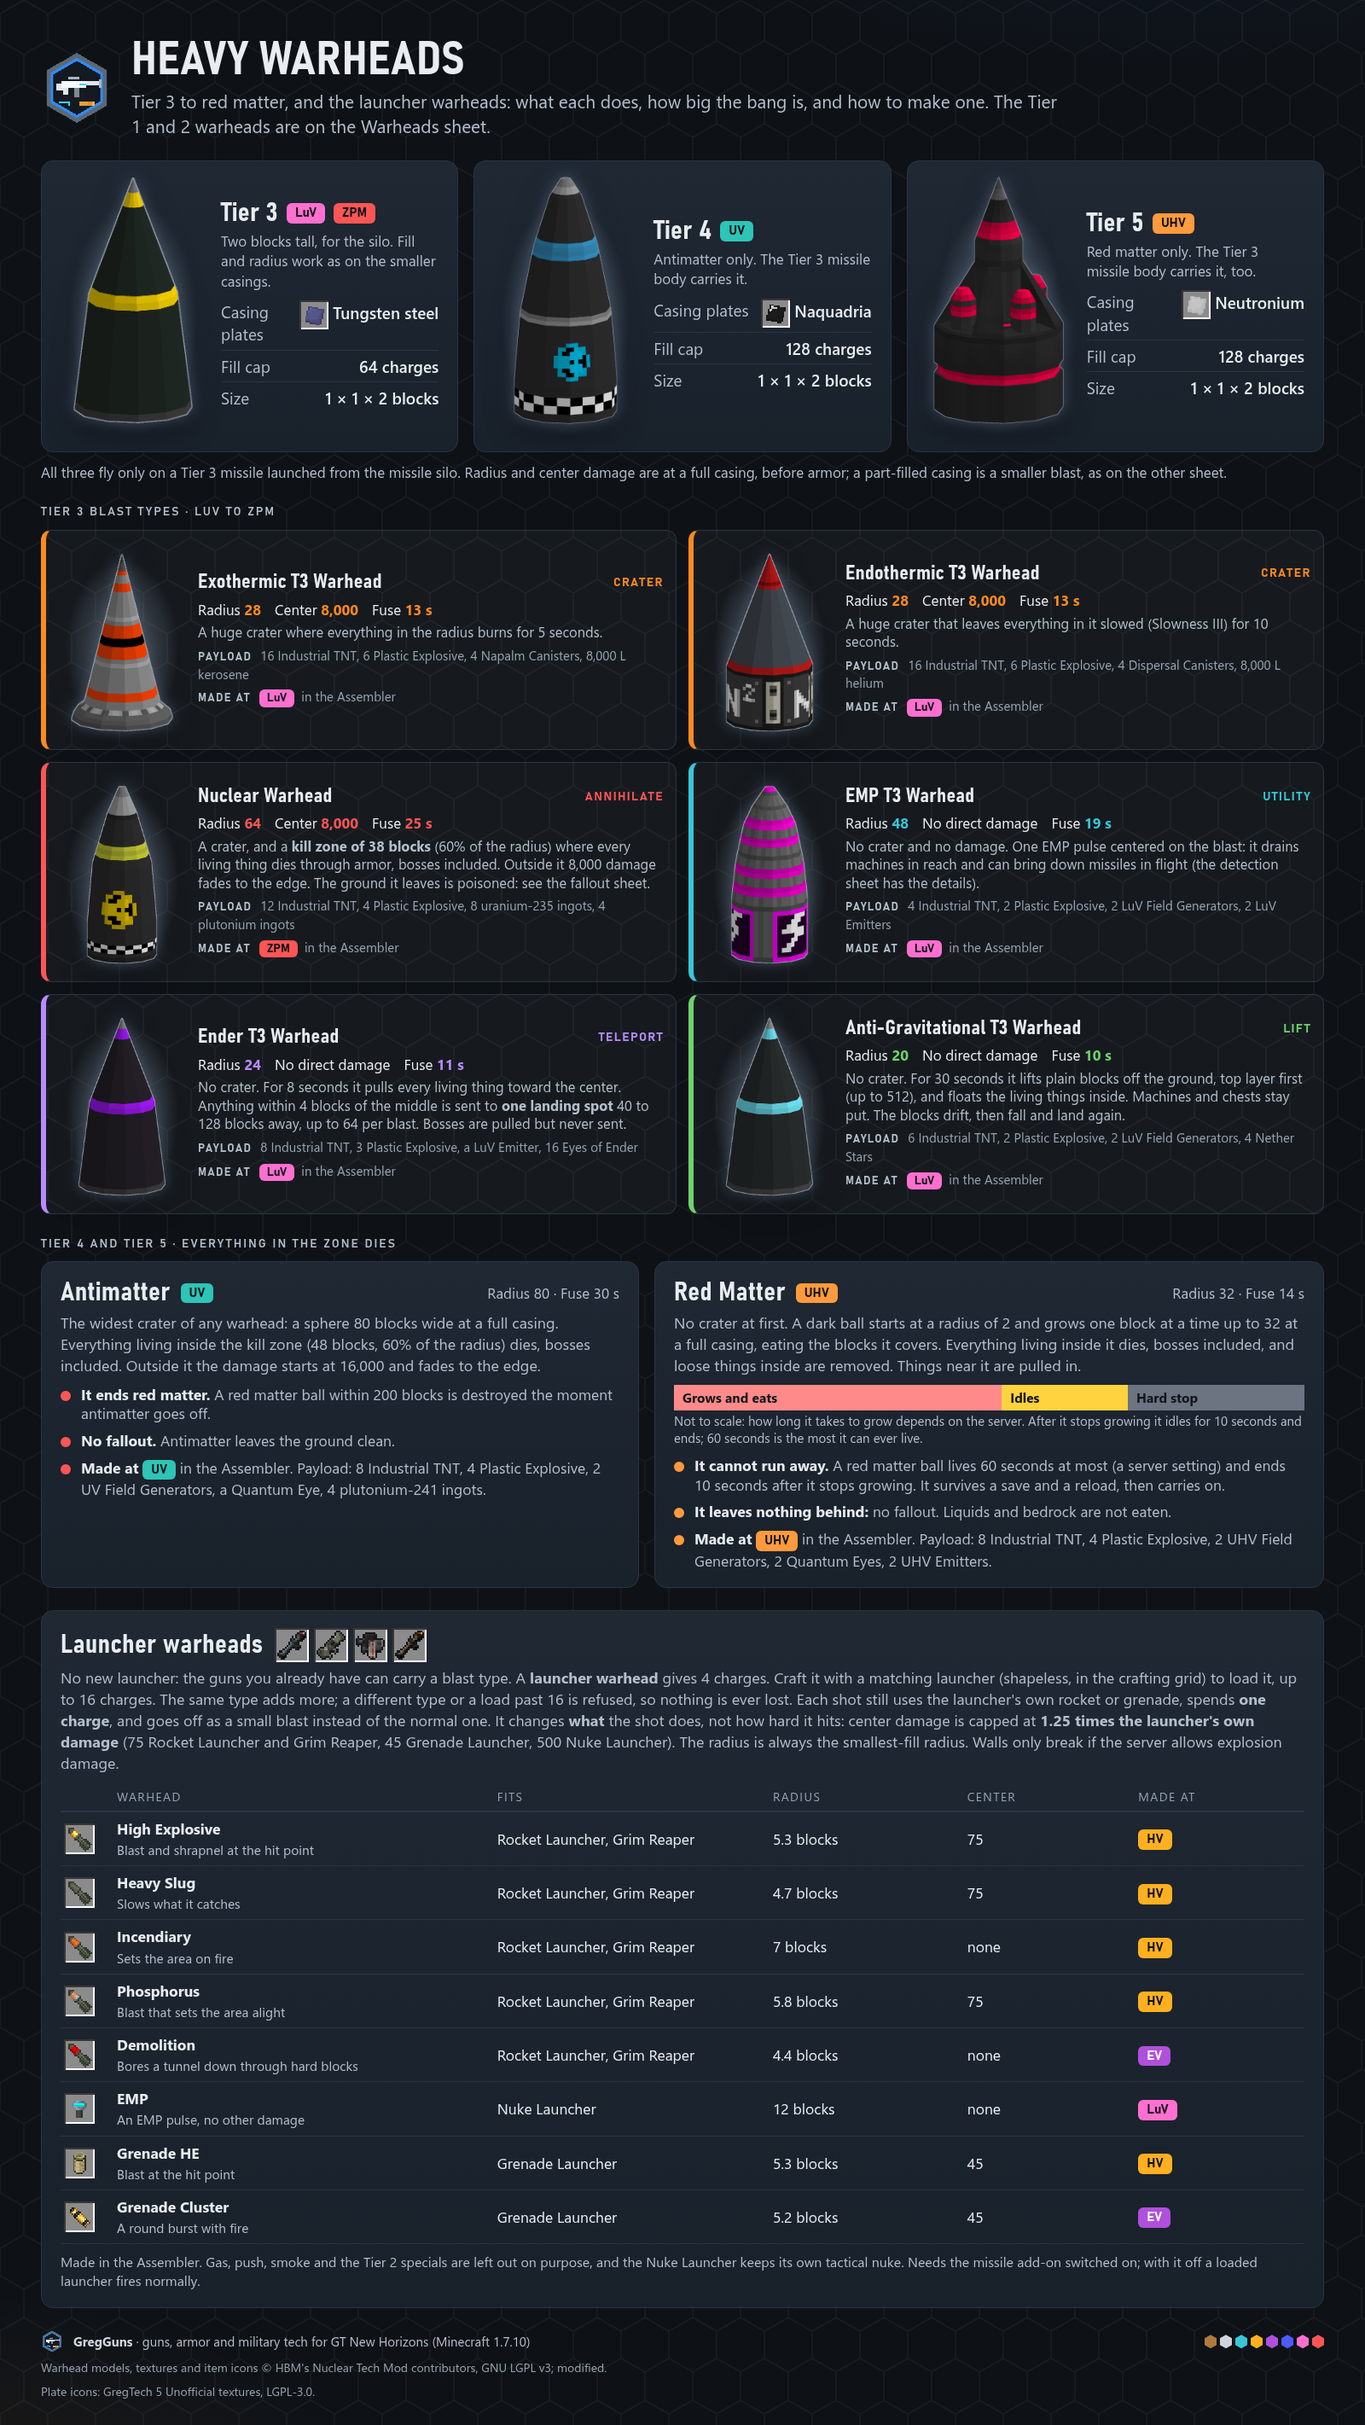
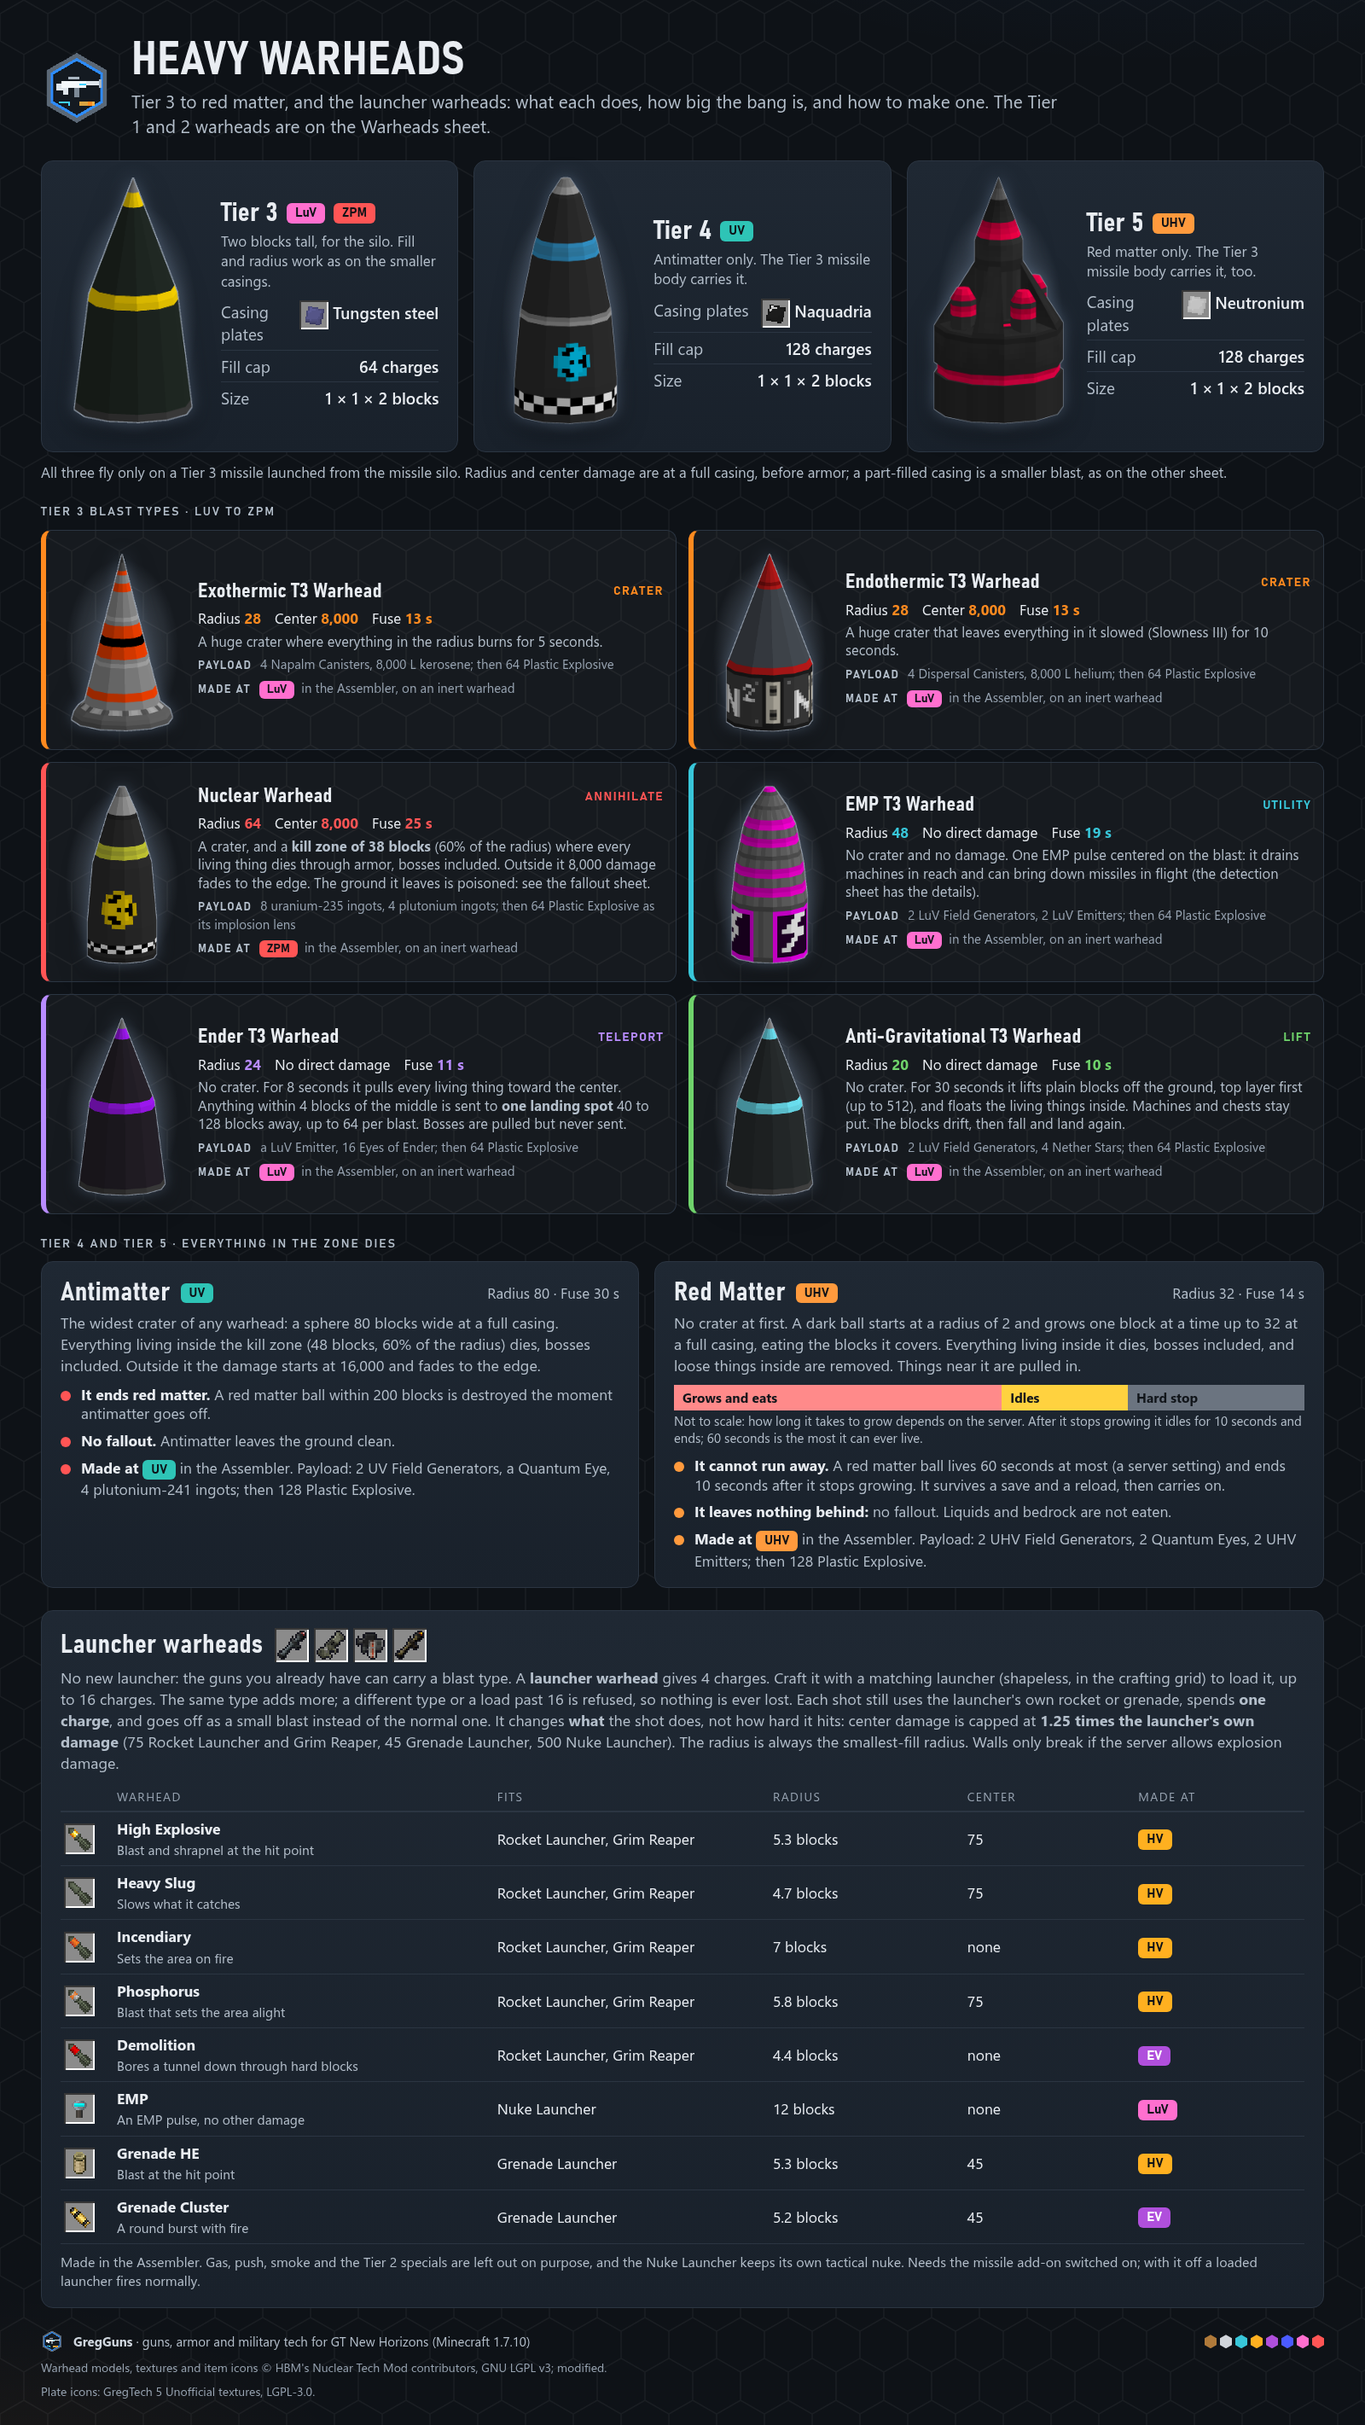
Warhead infographics follow the chain: inert warhead, payload, charges (D282)

diff --git a/tools/asset-gen/infographics/pages_icbm.py b/tools/asset-gen/infographics/pages_icbm.py
@@ -63,6 +63,8 @@ _RECIPES = (_JAVA / "WarheadRecipes.java").read_text(encoding="utf-8")
 _SPEC = (_JAVA / "WarheadRecipeSpec.java").read_text(encoding="utf-8")
 _PARTS = (K.REPO / "src/main/java/com/gregguns/icbm/recipe/IcbmPart.java").read_text(encoding="utf-8")
 _EFFECTS = (_JAVA / "effects/Effects.java").read_text(encoding="utf-8")
+_INERT = (_JAVA / "InertWarheadSpec.java").read_text(encoding="utf-8")
+_CHARGING = (_JAVA / "WarheadCharging.java").read_text(encoding="utf-8")
 
 
 def _verify_sources() -> None:
@@ -70,12 +72,14 @@ def _verify_sources() -> None:
     here, so a change to the recipe or the effect fails the build and the sheet is fixed with it."""
     need = [
         (_RECIPES, "RecipeMaps.assemblerRecipes"), (_RECIPES, "T1_PLATES = 4"), (_RECIPES, "T2_PLATES = 8"),
-        (_SPEC, "plates(Tier.HV, 4), Ing.tnt(8), Ing.dynamite(2), pe(3)"), (_SPEC, "plates(Tier.HV, 2), Ing.tnt(2), fuze1()"),
-        (_SPEC, "Ing.tnt(6), pe(2)"), (_SPEC, 'Ing.gt("plate", "Lead", 12'), (_SPEC, "Ing.part(IcbmPart.NAPALM_CANISTER, 2), pe(3)"),
+        (_RECIPES, ".nbtSensitive()"), (_INERT, "CIRCUIT = 2"), (_INERT, "Ing.part(IcbmPart.FUZE_ASSEMBLY_MK1, 1)"),
+        (_CHARGING, "MAX_PER_CRAFT = 8"), (_SPEC, "CONDENSED(WarheadBlast.CONDENSED, 1)"),
+        (_SPEC, "Ing.part(IcbmPart.FRAGMENTATION_SLEEVE_STEEL, 1)"), (_SPEC, 'Ing.gt("plate", "Lead", 12'),
+        (_SPEC, "INCENDIARY(WarheadBlast.INCENDIARY, 5, Ing.part(IcbmPart.NAPALM_CANISTER, 2))"),
         (_SPEC, 'Ing.gas("NitrousOxide", 2000'), (_SPEC, 'Ing.gas("Ammonia", 2000'), (_SPEC, 'Ing.optionalMod("harvestcraft:mustardseedsItem", 4)'),
         (_SPEC, 'Ing.gt("dust", "Coal", 8'), (_SPEC, 'Ing.fluid("Creosote", 2000'), (_SPEC, 'Ing.gtItem("Field_Generator_HV", 1'),
-        (_SPEC, 'Ing.gt("stick", "SteelMagnetic", 4'), (_SPEC, "Ing.industrialTnt(10), pe(4)"), (_SPEC, "Ing.kerosene(4000)"),
-        (_SPEC, "Ing.industrialTnt(6), pe(2)"), (_SPEC, 'Ing.gtItem("Emitter_EV", 2'), (_SPEC, "Ing.industrialTnt(10), pe(3)"),
+        (_SPEC, 'Ing.gt("stick", "SteelMagnetic", 4'), (_SPEC, "Ing.part(IcbmPart.FRAGMENTATION_SLEEVE_TITANIUM, 1)"),
+        (_SPEC, "Ing.kerosene(4000)"), (_SPEC, 'Ing.gtItem("Emitter_EV", 2'), (_SPEC, "Ing.part(IcbmPart.SHAPED_CHARGE_LINER_CONE, 2)"),
         (_SPEC, 'Ing.gt("stick", "Titanium", 6'), (_SPEC, "Ing.bioDish(4)"), (_SPEC, 'Ing.fluid("Biomass", 2000'),
         (_PARTS, "Ing.gt(\"plate\", \"Polytetrafluoroethylene\", 2"), (_PARTS, "Ing.industrialTnt(2)"), (_PARTS, "PLASTIC_EXPLOSIVE(\"plastic_explosive\", Tier.HV, 1.1, 4"),
         (_PARTS, 'Ing.fluid("Gasoline", 1000'),
@@ -111,19 +115,20 @@ def _n(v: float) -> str:
     return f"{v:.0f}" if abs(v - round(v)) < 1e-6 else f"{v:.1f}"
 
 
-# What each type is made of besides its casing, a Fuze and (where shown) Plastic Explosive (WarheadRecipeSpec). In player words.
+# The payload each type fits to an inert warhead (WarheadRecipeSpec, D282). The explosive is always the Plastic
+# Explosive charges. In player words.
 PAYLOAD = {
-    "condensed": "8 TNT, 2 dynamite, 3 Plastic Explosive", "shrapnel": "6 TNT, 2 Plastic Explosive, a steel Fragmentation Sleeve",
-    "anvil": "6 TNT, 2 Plastic Explosive, 12 lead plates", "repulsive": "2 Plastic Explosive, an HV Field Generator",
-    "attractive": "2 Plastic Explosive, an HV Field Generator, 4 magnetic steel rods", "incendiary": "2 Napalm Canisters, 3 Plastic Explosive",
-    "debilitation": "2 Dispersal Canisters, 3 Plastic Explosive, 2,000 L nitrous oxide",
-    "chemical": "2 Dispersal Canisters, 3 Plastic Explosive, 2,000 L ammonia gas, and a few mustard seeds if HarvestCraft is installed",
-    "smoke": "2 Dispersal Canisters, 1 Plastic Explosive, 8 coal dust, 2,000 L creosote",
-    "fragmentation": "10 Industrial TNT, 4 Plastic Explosive, a titanium Fragmentation Sleeve",
-    "sonic": "6 Industrial TNT, 2 Plastic Explosive, 2 EV Emitters",
-    "breaching": "10 Industrial TNT, 3 Plastic Explosive, 2 Shaped-Charge Liner Cones, 6 titanium rods",
-    "thermobaric": "10 Industrial TNT, 4 Plastic Explosive, 2 Dispersal Canisters, 4,000 L kerosene",
-    "contagious": "6 Industrial TNT, 2 Plastic Explosive, 4 Bio Lab culture dishes, 2,000 L biomass",
+    "condensed": "none: Plastic Explosive alone", "shrapnel": "a steel Fragmentation Sleeve",
+    "anvil": "12 lead plates", "repulsive": "an HV Field Generator",
+    "attractive": "an HV Field Generator, 4 magnetic steel rods", "incendiary": "2 Napalm Canisters",
+    "debilitation": "2 Dispersal Canisters, 2,000 L nitrous oxide",
+    "chemical": "2 Dispersal Canisters, 2,000 L ammonia gas, and a few mustard seeds if HarvestCraft is installed",
+    "smoke": "2 Dispersal Canisters, 8 coal dust, 2,000 L creosote",
+    "fragmentation": "a titanium Fragmentation Sleeve",
+    "sonic": "2 EV Emitters",
+    "breaching": "2 Shaped-Charge Liner Cones, 6 titanium rods",
+    "thermobaric": "2 Dispersal Canisters, 4,000 L kerosene",
+    "contagious": "4 Bio Lab culture dishes, 2,000 L biomass",
 }
 
 # (name, id, kind, what it does in player words), in the order the sheet lists them. Durations come from the effects
@@ -284,6 +289,7 @@ def warheads() -> str:
 <div class="muted" style="font-size:16px;margin-top:12px">On a missile body the same warhead flies instead; the blast is the same.</div></div>"""
 
     asm_ico = img(S.machine_block("assembler", "HV", greg=True), h=104)
+    pe_ico = slot(K.icon(K.ASSETS / "textures/items/thirdparty/ntm/plastic_explosive.png", 64), 72, "Plastic Explosive")
     ss, ti = gti("plate", "StainlessSteel", 28), gti("plate", "Titanium", 28)
     tp = K.ASSETS / "textures/items/thirdparty/ntm"
     parts_icons = "".join(slot(K.icon(f, 64), 36, t) for f, t in [
@@ -293,10 +299,11 @@ def warheads() -> str:
         (tp / "fragmentation_sleeve_titanium.png", "Fragmentation Sleeve (titanium)"),
         (K.ASSETS / "textures/items/shaped_charge_liner_cone.png", "Shaped-Charge Liner Cone")])
     make = f"""<div class="card"><h2>How warheads are made</h2>
-<div class="muted" style="font-size:18px;margin:6px 0 12px">Every warhead is one Assembler recipe at its casing's voltage. A recipe makes a full-casing warhead; one cheap starter recipe makes a fill of 1.</div>
+<div class="muted" style="font-size:18px;margin:6px 0 12px">Three steps: an inert casing, a payload, then Plastic Explosive charges. One charge is one unit of fill. The casing and the payload are Assembler recipes at the casing's voltage.</div>
 <div style="display:flex;flex-direction:column;gap:12px">
-<div class="mrow"><div class="spot" style="display:flex;justify-content:center">{asm_ico}</div><div><h3>Assembler {chip("HV")} {chip("EV")}</h3><div class="muted" style="font-size:17px">HV (Tier 1): {ss} 4 stainless steel plates, a Fuze Assembly Mk I, and the blast type's own parts (see each card). EV (Tier 2): {ti} 8 titanium plates, a Fuze Assembly Mk II and the type's parts. The starter charge (fill 1) is just 2 plates, {tnt} 2 TNT and a Fuze Mk I.</div></div></div>
-<div class="mrow"><div class="spot" style="display:flex;justify-content:center;flex-wrap:wrap;gap:6px;max-width:240px">{parts_icons}</div><div><h3>The parts, each an Assembler recipe too</h3><div class="muted" style="font-size:17px"><b>Plastic Explosive</b>: PTFE plates and Industrial TNT, in every warhead. <b>Fuze Assembly</b> Mk I (HV, Advanced circuit) and Mk II (EV, Data circuit). <b>Dispersal Canister</b> holds a fluid fill; the <b>Napalm Canister</b> is one filled with gasoline. <b>Fragmentation Sleeve</b> (steel or titanium) and <b>Shaped-Charge Liner Cone</b> (copper).</div></div></div></div></div>"""
+<div class="mrow"><div class="spot" style="display:flex;justify-content:center">{asm_ico}</div><div><h3>1. Inert warhead &middot; 2. Payload {chip("HV")} {chip("EV")}</h3><div class="muted" style="font-size:17px">The Assembler makes the <b>Inert T1 Warhead</b> from {ss} 4 stainless steel plates and a Fuze Assembly Mk I, and the <b>Inert T2 Warhead</b> from {ti} 8 titanium plates and a Mk II. An inert warhead cannot be placed, launched or set off. Then it fits a <b>payload</b>, the blast type's own parts (see each card), to the inert warhead. Condensed needs none.</div></div></div>
+<div class="mrow"><div class="spot" style="display:flex;justify-content:center">{pe_ico}</div><div><h3>3. Charges</h3><div class="muted" style="font-size:17px">Put the inert warhead and 1 to 8 <b>Plastic Explosive</b> in a crafting grid. It comes out as a live warhead with that many charges, up to the cap ({CAP[1]} for Tier 1, {CAP[2]} for Tier 2), and topping up works the same way. Or the Assembler fills a whole casing at once. Charges alone in a Tier 1 casing make Condensed. A Tier 2 casing needs a payload first.</div></div></div>
+<div class="mrow"><div class="spot" style="display:flex;justify-content:center;flex-wrap:wrap;gap:6px;max-width:240px">{parts_icons}</div><div><h3>The parts, each an Assembler recipe too</h3><div class="muted" style="font-size:17px"><b>Plastic Explosive</b>: PTFE plates and Industrial TNT, the charge of every warhead. <b>Fuze Assembly</b> Mk I (HV, Advanced circuit) and Mk II (EV, Data circuit). <b>Dispersal Canister</b> holds a fluid fill; the <b>Napalm Canister</b> is one filled with gasoline. <b>Fragmentation Sleeve</b> (steel or titanium) and <b>Shaped-Charge Liner Cone</b> (copper).</div></div></div></div></div>"""
 
     ladder = "".join(
         f'<span>{chip(t) if t in K.TIERS else _hi_chip(t)}</span>'

diff --git a/tools/asset-gen/infographics/pages_icbm_heavy.py b/tools/asset-gen/infographics/pages_icbm_heavy.py
@@ -69,22 +69,19 @@ def _verify() -> None:
     """The payload text printed below, checked against the recipe source."""
     spec = P._SPEC
     need = [
-        "ENDER(WarheadBlast.ENDER, false, 5, plates(Tier.LUV, 8), Ing.industrialTnt(8), pe(3),",
-        'Ing.gtItem("Emitter_LuV", 1, Tier.LUV, 10.0), Ing.gt("gem", "EnderEye", 16',
-        "ANTIGRAV(WarheadBlast.ANTIGRAV, false, 6, plates(Tier.LUV, 8), Ing.industrialTnt(6), pe(2),",
-        'Ing.gtItem("Field_Generator_LuV", 2, Tier.LUV, 12.0), Ing.gt("gem", "NetherStar", 4',
-        "EMP(WarheadBlast.EMP, false, 4, plates(Tier.LUV, 8), Ing.industrialTnt(4), pe(2),",
-        'Ing.gtItem("Field_Generator_LuV", 2, Tier.LUV, 12.0), Ing.gtItem("Emitter_LuV", 2',
-        "NUCLEAR(WarheadBlast.NUCLEAR, false, 3, plates(Tier.LUV, 8), Ing.industrialTnt(12), pe(4),",
-        'Ing.gt("ingot", "Uranium235", 8, Tier.HV, 6.0), Ing.gt("ingot", "Plutonium", 4',
-        "EXOTHERMIC(WarheadBlast.EXOTHERMIC, false, 1, plates(Tier.LUV, 8), Ing.industrialTnt(16), pe(6),",
-        "Ing.part(IcbmPart.NAPALM_CANISTER, 4), fuze3(), Ing.kerosene(8000)",
-        "Ing.part(IcbmPart.DISPERSAL_CANISTER, 4), fuze3(), Ing.gas(\"Helium\", 8000",
-        "ANTIMATTER(WarheadBlast.ANTIMATTER, false, 1, naquadria(8), Ing.industrialTnt(8), pe(4),",
+        "ENDER(WarheadBlast.ENDER, 5,",
+        'Ing.gtItem("Emitter_LuV", 1, Tier.LUV, 10.0)', 'Ing.gt("gem", "EnderEye", 16',
+        "ANTIGRAV(WarheadBlast.ANTIGRAV, 6,",
+        'Ing.gtItem("Field_Generator_LuV", 2, Tier.LUV, 12.0)', 'Ing.gt("gem", "NetherStar", 4',
+        "EMP(WarheadBlast.EMP, 4,", 'Ing.gtItem("Emitter_LuV", 2',
+        "NUCLEAR(WarheadBlast.NUCLEAR, 3,",
+        'Ing.gt("ingot", "Uranium235", 8, Tier.HV, 6.0)', 'Ing.gt("ingot", "Plutonium", 4',
+        "EXOTHERMIC(WarheadBlast.EXOTHERMIC, 1, Ing.part(IcbmPart.NAPALM_CANISTER, 4), Ing.kerosene(8000))",
+        "Ing.part(IcbmPart.DISPERSAL_CANISTER, 4),", 'Ing.gas("Helium", 8000',
+        "ANTIMATTER(WarheadBlast.ANTIMATTER, 1,",
         'Ing.gtItem("Field_Generator_UV", 2', 'Ing.gtItem("QuantumEye", 1', 'Ing.gt("ingot", "Plutonium241", 4',
-        "REDMATTER(WarheadBlast.REDMATTER, false, 2, neutronium(8), Ing.industrialTnt(8), pe(4),",
+        "REDMATTER(WarheadBlast.REDMATTER, 2,",
         'Ing.gtItem("Field_Generator_UHV", 2', 'Ing.gtItem("QuantumEye", 2', 'Ing.gtItem("Emitter_UHV", 2',
-        "fuze3()",
     ]
     missing = [n for n in need if n not in spec]
     if missing:
@@ -100,14 +97,14 @@ MACHINE = {"exothermic": "LuV", "endothermic": "LuV", "nuclear": "ZPM", "emp": "
 
 TIER_NAME = {"HV": "HV", "EV": "EV", "LUV": "LuV"}
 PAY = {
-    "exothermic": "16 Industrial TNT, 6 Plastic Explosive, 4 Napalm Canisters, 8,000 L kerosene",
-    "endothermic": "16 Industrial TNT, 6 Plastic Explosive, 4 Dispersal Canisters, 8,000 L helium",
-    "nuclear": "12 Industrial TNT, 4 Plastic Explosive, 8 uranium-235 ingots, 4 plutonium ingots",
-    "emp": "4 Industrial TNT, 2 Plastic Explosive, 2 LuV Field Generators, 2 LuV Emitters",
-    "ender": "8 Industrial TNT, 3 Plastic Explosive, a LuV Emitter, 16 Eyes of Ender",
-    "antigrav": "6 Industrial TNT, 2 Plastic Explosive, 2 LuV Field Generators, 4 Nether Stars",
-    "antimatter": "8 Industrial TNT, 4 Plastic Explosive, 2 UV Field Generators, a Quantum Eye, 4 plutonium-241 ingots",
-    "redmatter": "8 Industrial TNT, 4 Plastic Explosive, 2 UHV Field Generators, 2 Quantum Eyes, 2 UHV Emitters",
+    "exothermic": "4 Napalm Canisters, 8,000 L kerosene; then 64 Plastic Explosive",
+    "endothermic": "4 Dispersal Canisters, 8,000 L helium; then 64 Plastic Explosive",
+    "nuclear": "8 uranium-235 ingots, 4 plutonium ingots; then 64 Plastic Explosive as its implosion lens",
+    "emp": "2 LuV Field Generators, 2 LuV Emitters; then 64 Plastic Explosive",
+    "ender": "a LuV Emitter, 16 Eyes of Ender; then 64 Plastic Explosive",
+    "antigrav": "2 LuV Field Generators, 4 Nether Stars; then 64 Plastic Explosive",
+    "antimatter": "2 UV Field Generators, a Quantum Eye, 4 plutonium-241 ingots; then 128 Plastic Explosive",
+    "redmatter": "2 UHV Field Generators, 2 Quantum Eyes, 2 UHV Emitters; then 128 Plastic Explosive",
 }
 CAT_COLOR = {"Crater": "#ff8a1f", "Annihilate": "#ff5555", "Utility": "#38c6d9", "Teleport": "#b88cff", "Lift": "#6fd36b"}
 
@@ -153,7 +150,7 @@ def _t3_card(bid, name, kind, what, size_html=None):
 <div class="top"><h3>{esc(name)}</h3><span class="kind">{esc(kind)}</span></div>
 <div class="nums"><span>Radius <b>{P._n(rad)}</b></span>{dmg_html}<span>Fuse <b>{_fuse(rad)} s</b></span></div>
 <div class="what">{what}</div>
-<div class="pay"><span>Payload</span> {esc(PAY[bid])}</div><div class="pay"><span>Made at</span> {tchip(MACHINE[bid])} in the Assembler</div></div></div></div>"""
+<div class="pay"><span>Payload</span> {esc(PAY[bid])}</div><div class="pay"><span>Made at</span> {tchip(MACHINE[bid])} in the Assembler, on an inert warhead</div></div></div></div>"""
 
 
 def _casing(tier, label, tier_chip, mesh, tex, plate_html, cap, extra, blurb, ppu=150):
